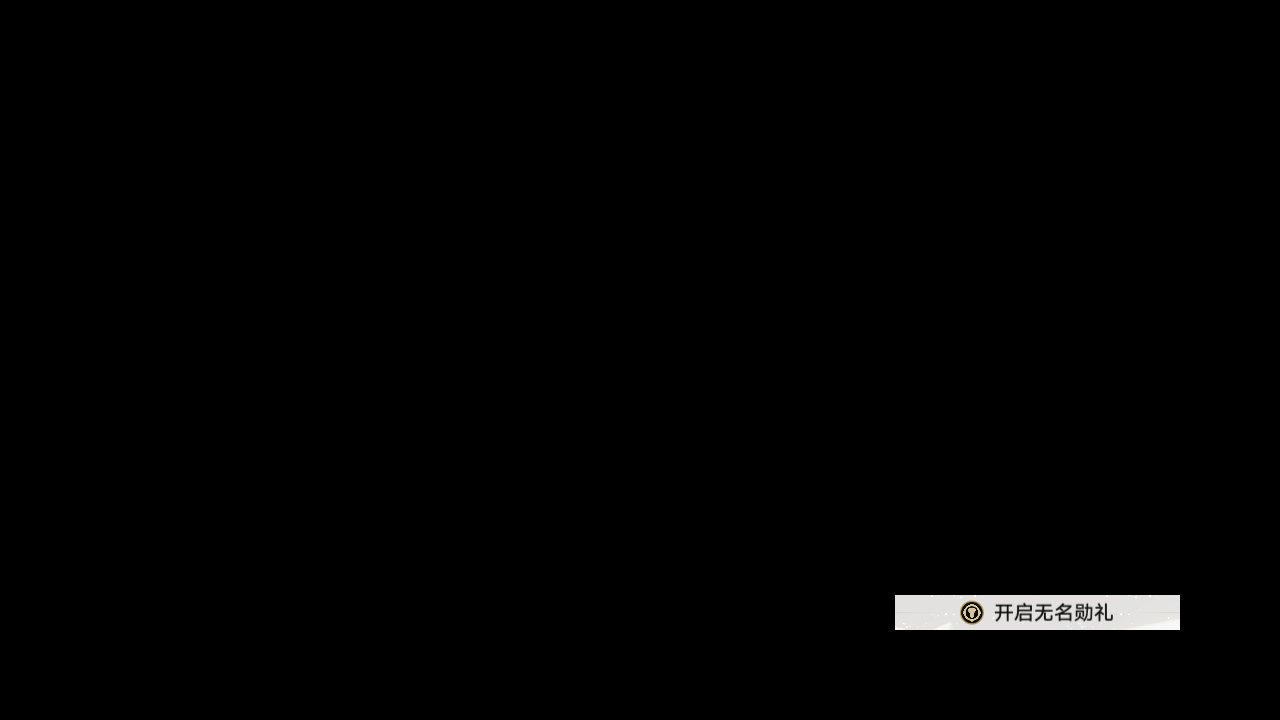
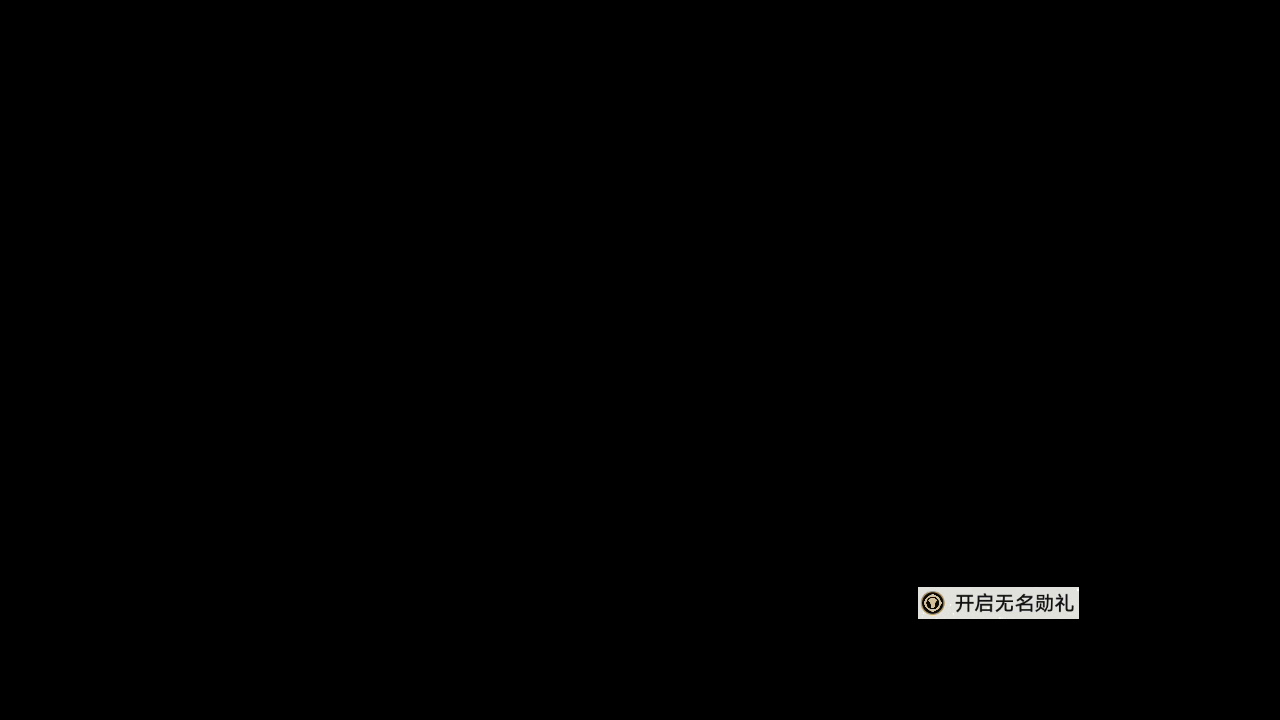
Upd: BATTLE_PASS_NOTIFICATION

Changed region(s): [[0.6875, 0.7944, 0.9375, 0.8861]]

diff --git a/tasks/base/assets/assets_base_popup.py b/tasks/base/assets/assets_base_popup.py
@@ -7,10 +7,10 @@ BATTLE_PASS_NOTIFICATION = ButtonWrapper(
     name='BATTLE_PASS_NOTIFICATION',
     share=Button(
         file='./assets/share/base/popup/BATTLE_PASS_NOTIFICATION.png',
-        area=(960, 601, 984, 625),
-        search=(940, 581, 1004, 645),
-        color=(137, 127, 109),
-        button=(895, 595, 1180, 630),
+        area=(922, 592, 944, 614),
+        search=(850, 589, 952, 618),
+        color=(122, 112, 93),
+        button=(918, 587, 1079, 619),
     ),
 )
 GET_LIGHT_CONE = ButtonWrapper(
